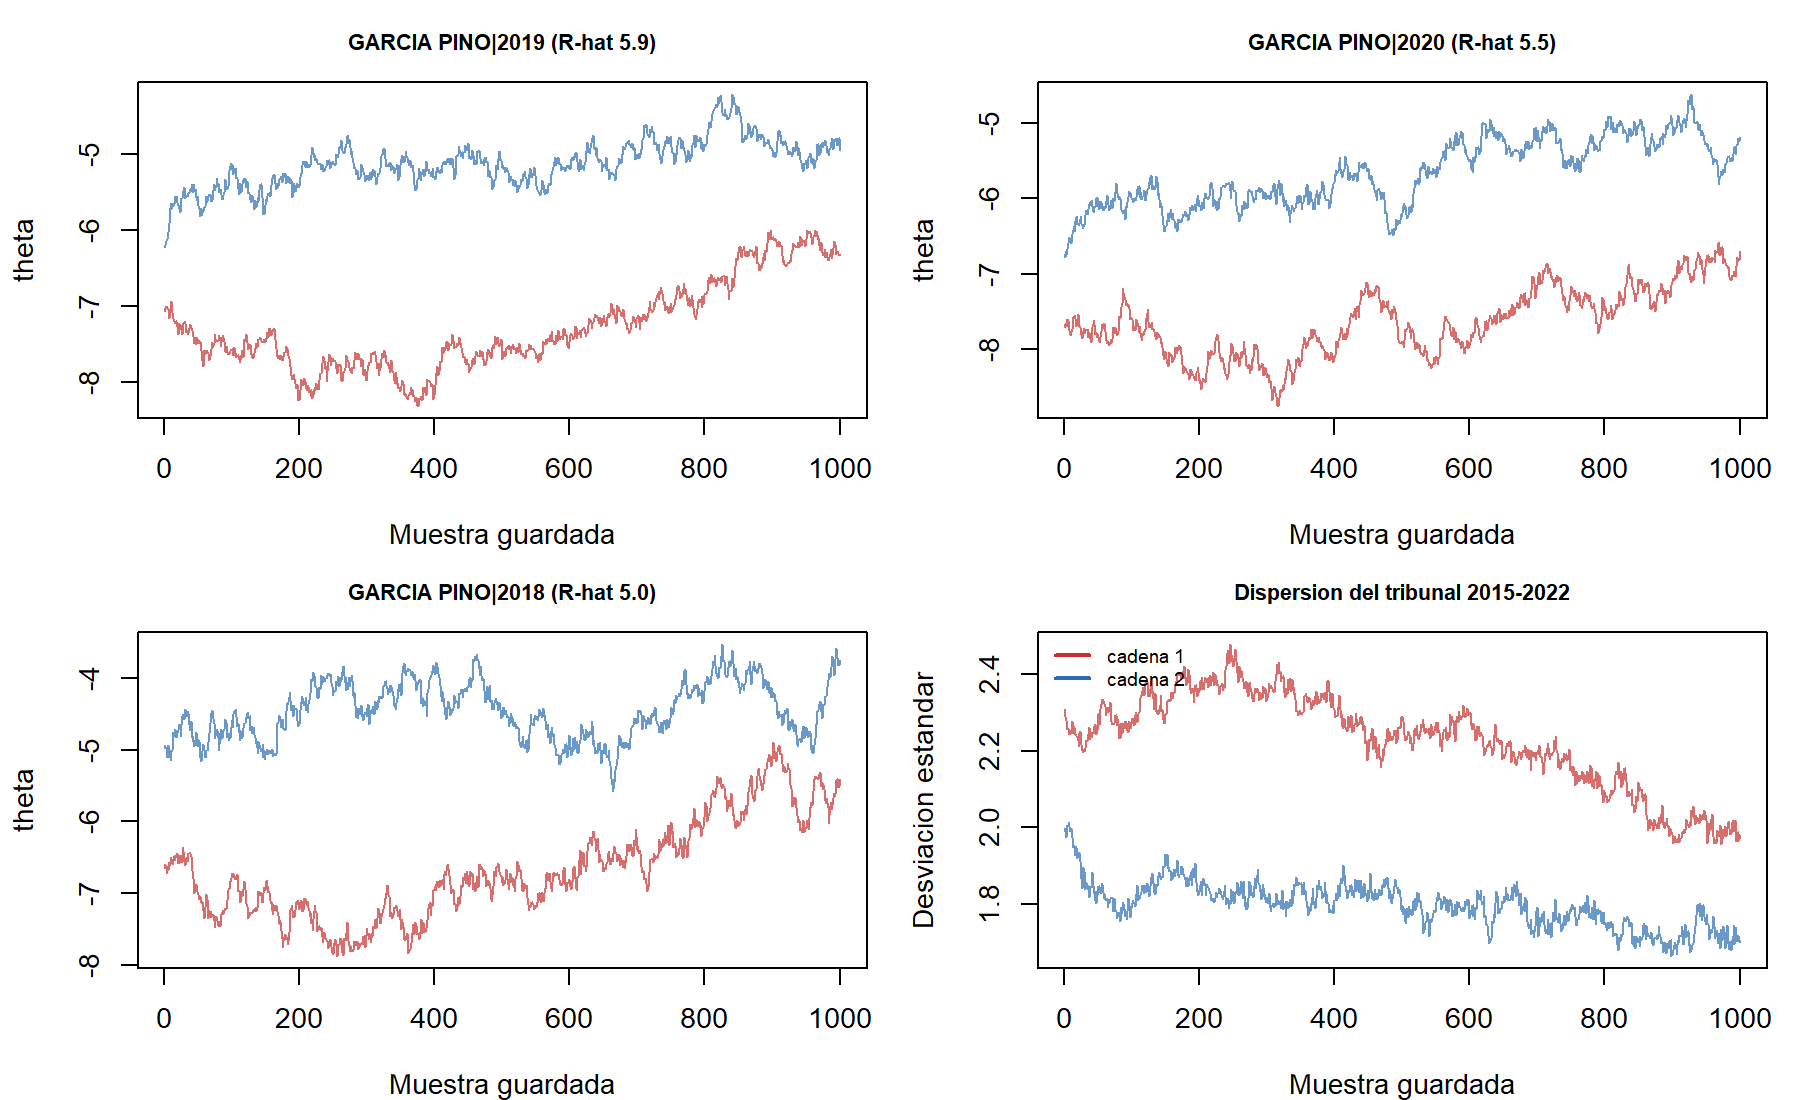
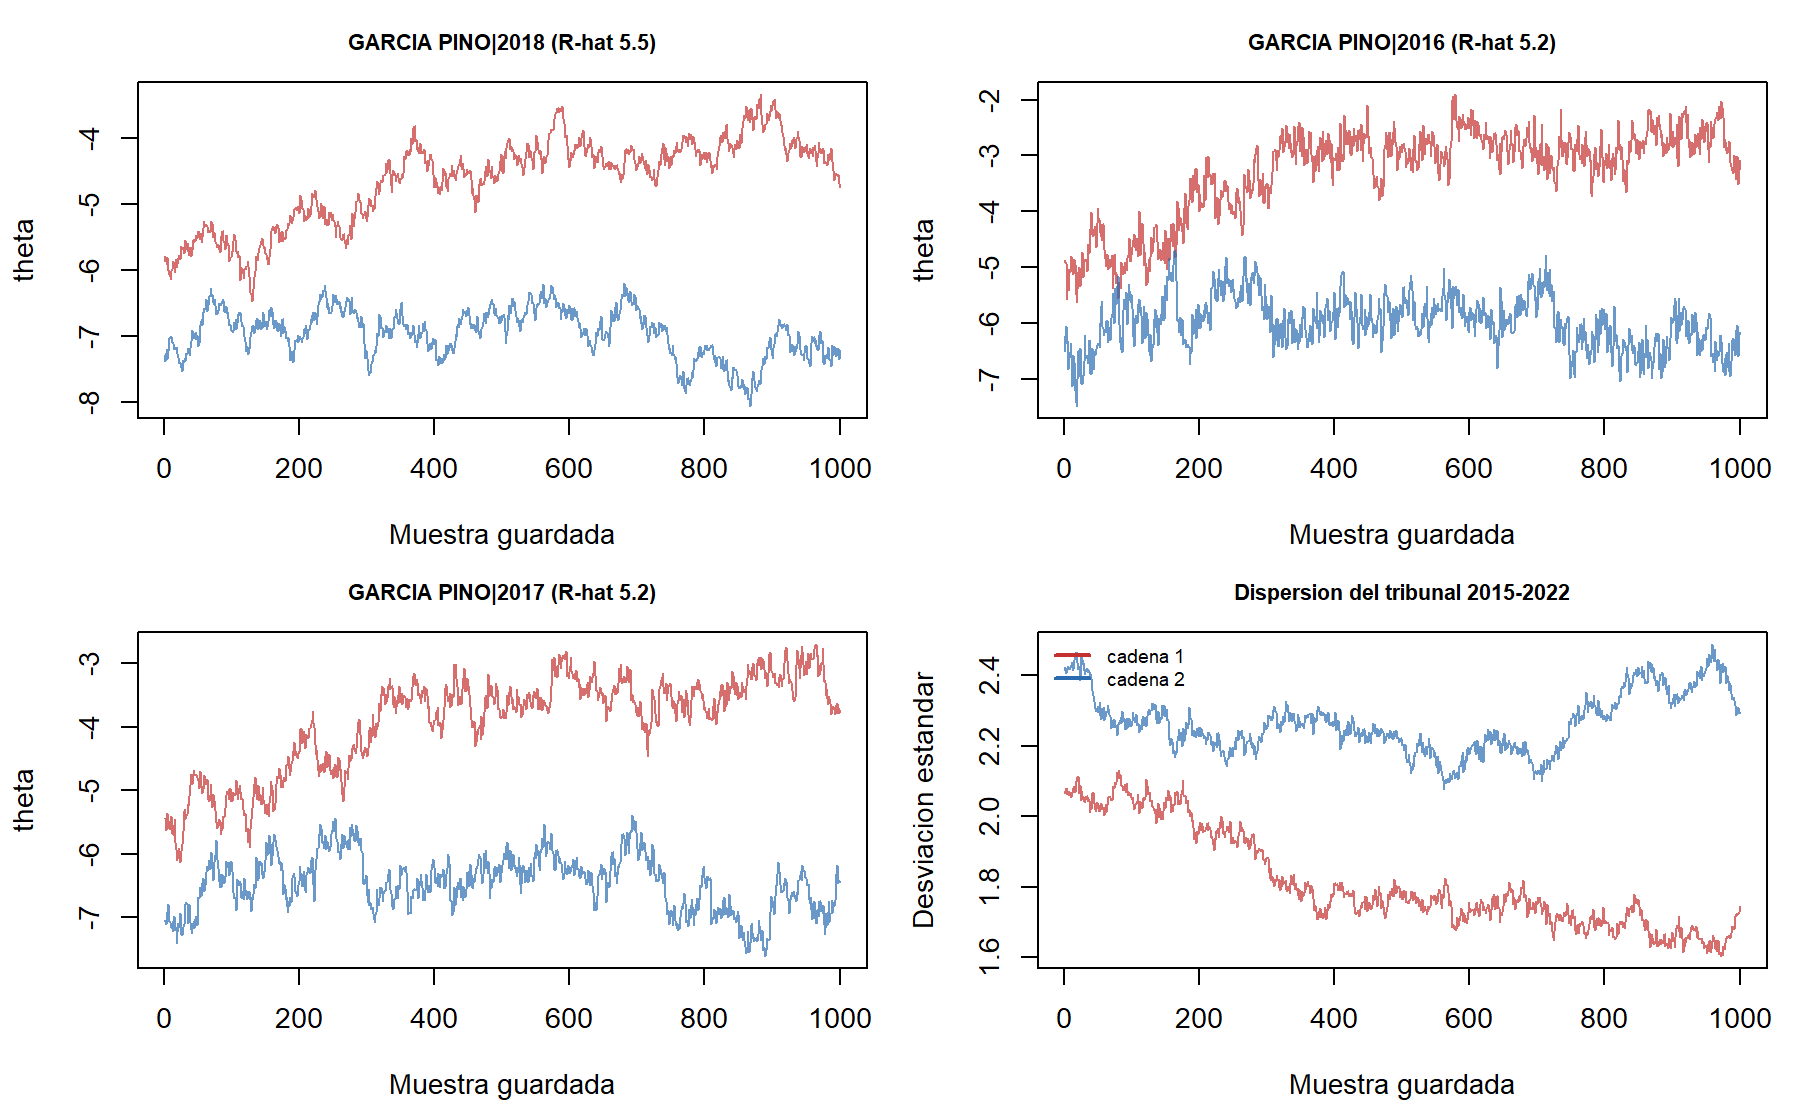
Actualiza el diagnostico de MCMCpack con anclas solo con signo en la base corregida

diff --git a/proyects/carlos/modelo_formal.md b/proyects/carlos/modelo_formal.md
@@ -240,27 +240,27 @@ Las anclas son las mismas en todos: Aróstica (derecha) y García Pino (izquierd
 | Estimación | Diagnóstico | Resultado |
 |---|---|---|
 | MCMCpack, base del paper (2 cadenas de 20.000 iteraciones) | Geweke: % de parámetros con \|z\| > 1,96 (se espera ~5 %); R-hat | Geweke 4 % y 9 %; R-hat máximo 1,03, ninguno sobre 1,1: **convergió** |
-| MCMCpack, base nueva, anclas solo con signo (2 cadenas de 15.000 iteraciones; corrida anterior a la corrección de fechas) | R-hat de Gelman-Rubin; Geweke | R-hat > 1,1 en 24 % (máximo 5,9); Geweke 32 %: **no convergió** |
+| MCMCpack, base nueva, anclas solo con signo (2 cadenas de 15.000 iteraciones) | R-hat de Gelman-Rubin; Geweke | R-hat > 1,1 en 32 % (máximo 5,5); Geweke 35 % y 29 %: **no convergió** |
 | MCMCpack, base nueva, **anclas fijas en ±1** (2 cadenas de 15.000 iteraciones, ~14 h) | R-hat; Geweke | R-hat > 1,1 en 7 % (máximo 1,42): **0 % en 2006–2014 y 2 % en 2015–2022**; Geweke 12 % y 20 %: **converge desde 2006**; antes de 2006 y desde 2023, con reservas |
 | idealstan, 5 estimaciones (2 cadenas cada una) | Divergencias; R-hat máximo (se espera < 1,1) | 0 divergencias (2 en una); R-hat máximo entre 1,02 y 1,06, salvo la base nueva con covariable (1,13, pero solo el 0,1 % de los parámetros sobre 1,1): **convergió** |
 
-**Por qué MCMCpack no convergía en la base nueva con las anclas habituales.** Martin y Quinn fija el sentido de la escala con dos anclas de signo conocido: Aróstica positivo y García Pino negativo. Eso fija el signo, pero no la distancia. Con esa versión, las dos cadenas ordenaban a los ministros casi igual y ninguna mostraba un salto de dispersión en 2005, pero **el tamaño de la escala no se estabilizaba**: García Pino, por ejemplo, quedaba en −7 en una cadena y en −5 en la otra.
+**Por qué MCMCpack no convergía en la base nueva con las anclas habituales.** Martin y Quinn fija el sentido de la escala con dos anclas de signo conocido: Aróstica positivo y García Pino negativo. Eso fija el signo, pero no la distancia. Con esa versión, las dos cadenas ordenaban a los ministros casi igual (correlación de 0,94 entre ellas), pero **el tamaño de la escala no se estabilizaba**: García Pino, por ejemplo, quedaba en −3,6 en una cadena y en −6,1 en la otra.
 
-`modelo/diagnosticar_mcmcpack.R` muestra por qué: **las cadenas seguían moviéndose al final**. En ambas, la dispersión de 2015–2022 bajaba sin parar (correlación de −0,84 y −0,78 con el número de iteración). Si todos los ministros se alejan y los fallos "discriminan" menos, los votos se explican casi igual, así que el muestreador recorre esa dirección. Con miles de fallos por año, lo hace a pasos diminutos y harían falta muchas más iteraciones. La base del paper, con muchos menos fallos, no tiene ese problema.
+`modelo/diagnosticar_mcmcpack.R` muestra por qué: **las cadenas seguían moviéndose al final**. En una cadena, la dispersión de 2015–2022 bajaba sin parar (correlación de −0,91 con el número de iteración). En la otra no tenía tendencia (0,19), pero terminó en otro nivel: 2,4, frente a 1,7 en la primera. Si todos los ministros se alejan y los fallos "discriminan" menos, los votos se explican casi igual, así que el muestreador recorre esa dirección. Con miles de fallos por año, lo hace a pasos diminutos y harían falta muchas más iteraciones. La base del paper, con muchos menos fallos, no tiene ese problema.
 
 ![Diagnóstico de MCMCpack, anclas solo con signo](figuras/diag_mcmcpack_nueva.png)
 
-**Diagnóstico de MCMCpack, base nueva, anclas solo con signo.** Cada color es una cadena. Las cadenas no se juntan y siguen con tendencia al terminar. (Corrida hecha antes de corregir las fechas de la sección 7.1; se está repitiendo con la base corregida.)
+**Diagnóstico de MCMCpack, base nueva, anclas solo con signo.** Cada color es una cadena. Las cadenas no se juntan y al menos una sigue con tendencia al terminar.
 
 **La solución: anclas fijas.** Si el problema es que la escala no tiene un tamaño fijo, hay que fijar las anclas en valores exactos: Aróstica = +1 y García Pino = −1 (`estimar_ideologia_bayes.R nueva 5000 10000 10 <cadena> fijas`). Así se fija la unidad de medida, como hace idealstan con sus anclas en ±2. Con el mismo número de iteraciones que la versión anterior:
 
 | % de parámetros con R-hat > 1,1 | 1990–2005 | 2006–2014 | 2015–2022 | 2023–2026 | R-hat máximo |
 |---|---|---|---|---|---|
-| Anclas solo con signo (antes de corregir fechas) | 24 | 29 | 24 | 14 | 5,9 (García Pino) |
+| Anclas solo con signo | 54 | 33 | 26 | 2 | 5,5 (García Pino) |
 | **Anclas fijas** | 16 | **0** | **2** | 12 | 1,42 (Silva Gallinato) |
 
 - **La escala dejó de estirarse.** La dispersión de 2015–2022 ya no tiene tendencia (correlación con la iteración de 0,04 y −0,24), y las cadenas casi no cambian entre la primera y la segunda mitad (cambio medio de 0,05 y 0,09).
-- **Lo que falta converger está en los años sin anclas.** Aróstica y García Pino votan entre 2010–2011 y 2022. Antes de 2006 y desde 2023, la escala se conecta solo a través de los ministros que cruzan de una época a otra. Antes de 2006, además, hay pocos fallos con disidencia (58). Los ministros que peor convergen son de esos años (Silva Gallinato, García Rodríguez, Aburto, Faúndez). Por eso esos períodos se leen con reservas, y por eso la base del paper sigue siendo la principal antes de 2006.
+- **Lo que falta converger está en los años sin anclas.** Aróstica y García Pino votan entre 2010–2011 y 2022. Antes de 2006 y desde 2023, la escala se conecta solo a través de los ministros que cruzan de una época a otra. Antes de 2006, además, hay pocos fallos con disidencia (58). Los ministros que peor convergen son de esos años (Silva Gallinato, García Rodríguez, Aburto, Faúndez). Por eso esos períodos se leen con reservas, y por eso la base del paper sigue siendo la principal antes de 2006. En 2023–2026, la versión con anclas solo con signo tiene menos parámetros sin converger (2 % frente a 12 %), pero no sirve de comparación, porque el tamaño de su escala no está fijo.
 
 ![Diagnóstico de MCMCpack, anclas fijas](figuras/diag_mcmcpack_nueva_fijas.png)
 
